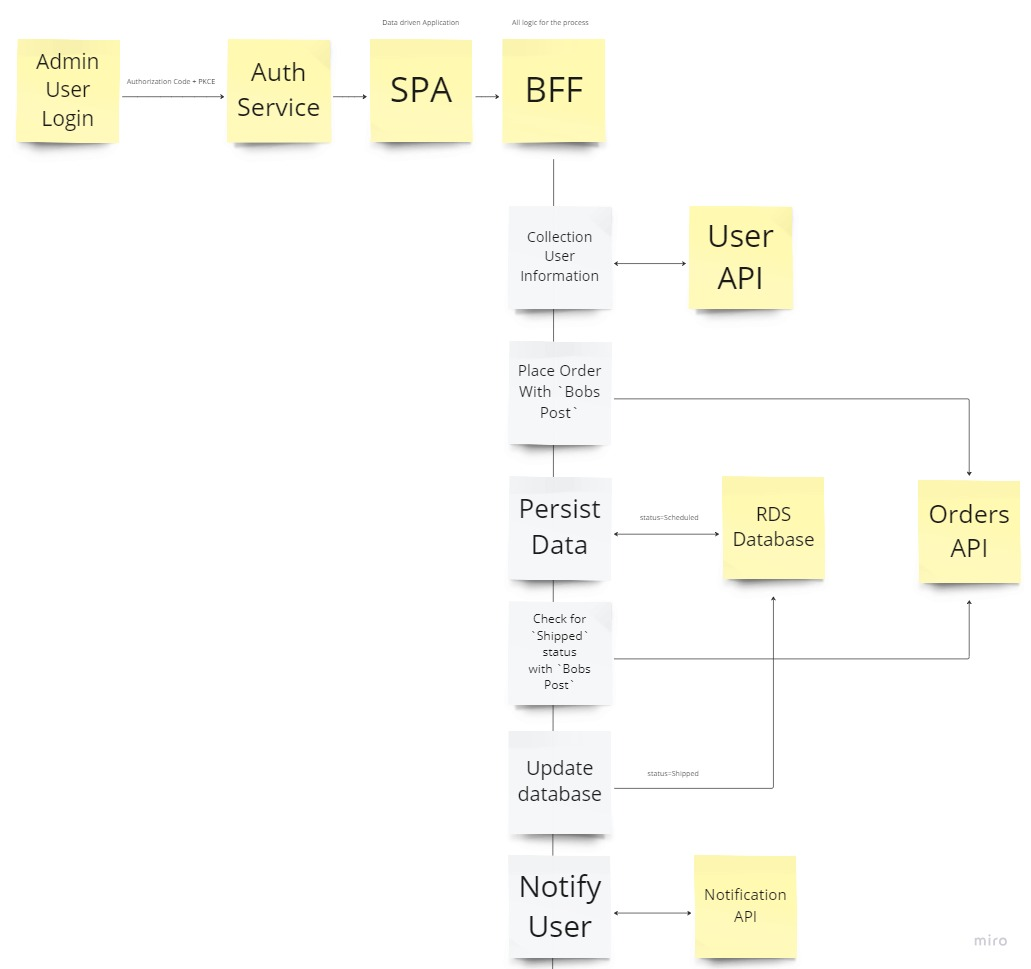
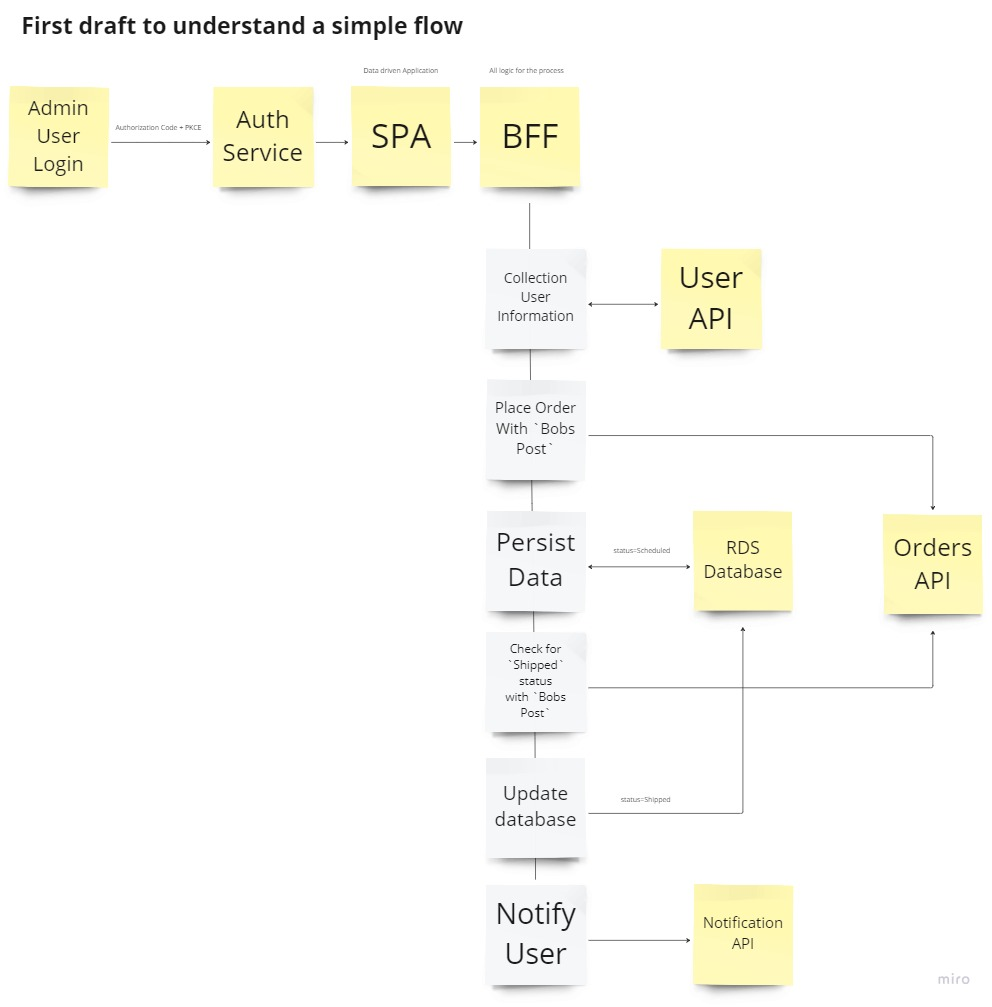
Site updated: 2023-09-11 10:01:44

diff --git a/2023/10/rosetta/index.html b/2023/10/rosetta/index.html
@@ -34,7 +34,7 @@ ga('send', 'pageview');
 <meta property="og:image" content="https://carlpaton.github.io/d/solution-design-ordering-system/third-draft-worker2.jpg">
 <meta property="og:image" content="https://carlpaton.github.io/d/solution-design-ordering-system/third-draft-notification.jpg">
 <meta property="article:published_time" content="2023-10-08T11:00:00.000Z">
-<meta property="article:modified_time" content="2023-09-09T17:55:09.742Z">
+<meta property="article:modified_time" content="2023-09-10T22:01:16.673Z">
 <meta property="article:author" content="Carl Paton">
 <meta property="article:tag" content="rosetta code">
 <meta name="twitter:card" content="summary">
@@ -149,18 +149,18 @@ ga('send', 'pageview');
 <li>Following KISS (Keep It Super Simple) solve the problem in the simplest manner, itterate later to allow for fault tolerance.</li>
 <li>Draft a few solutions and itterate on them<ul>
 <li>As such use an unconventional <code>Sticky Note</code> representation first to show the flow</li>
-<li>As a last draft represent as a <a target="_blank" rel="noopener" href="https://www.lucidchart.com/pages/uml-sequence-diagram">technical sequence diagram</a></li>
+<li>As a last draft represent as a <a target="_blank" rel="noopener" href="https://www.lucidchart.com/pages/uml-sequence-diagram">technical sequence diagram</a> (<a target="_blank" rel="noopener" href="https://miro.com/diagramming/uml-sequence-diagram/">Miro Template</a>)</li>
 </ul>
 </li>
 <li>The solution is Cloud Based (Focus on AWS), consider technologies for the pending decision register item<ul>
-<li>Security (Authentication and Authorisation), consider using <a href="/2020/12/oauth2/">OAuth2 flows</a>.</li>
-<li>Serverless Lamda Functions to expose data / house logic</li>
-<li>State Machine if we want to group logic and Lamdas</li>
+<li>Security (Authentication and Authorisation), consider using <a href="/2020/12/oauth2/">OAuth2 flows</a></li>
+<li><a href="/2021/11/aws-sqs-step-function-and-lamdas/">Serverless Lamda Functions</a> to expose data / house logic</li>
+<li><a href="/2021/11/aws-sqs-step-function-and-lamdas/">State Machine if we want to group logic and Lamdas</a></li>
 <li>Kubernetes (EKS) for Workers</li>
-<li>RESTful APIs to expose data / house logic</li>
-<li>Persistant storage options like Relational (RDS) or Key/Value Document DB (Dynamo)</li>
-<li>Frontend Application. React, Angular or Vue Single Page Application (SPA)</li>
-<li>Messaging System (SQS) and <a href="/2022/02/cloudevents/">Cloud Events</a></li>
+<li><a href="/2020/11/what-makes-a-great-api/">RESTful APIs</a> to expose data / house logic</li>
+<li>Persistant storage options like Relational (RDS) or Key/Value <a href="/2020/11/aws-dynamodb/">Document DB (Dynamo)</a></li>
+<li>Frontend Application. <a href="/tags/reactjs/">React</a>, <a href="/tags/angular/">Angular</a> or Vue Single Page Application (SPA) <a href="/2020/11/aws-s3/">hosted in S3</a></li>
+<li><a href="/2021/11/aws-sqs/">Messaging System (SQS)</a> and <a href="/2022/02/cloudevents/">Cloud Events</a></li>
 </ul>
 </li>
 <li>Cloud Design Patterns<ul>
@@ -179,23 +179,23 @@ ga('send', 'pageview');
 </li>
 </ul>
 <h4 id="First-Draft"><a href="#First-Draft" class="headerlink" title="First Draft"></a>First Draft</h4><p>First lets understand the problem and use an unconventional <code>Sticky Note</code> representation.</p>
-<p><img src="/d/solution-design-ordering-system/first-draft.jpg" alt="First Draft"></p>
+<p><img src="/d/solution-design-ordering-system/first-draft.jpg" alt="First draft to understand a simple flow"></p>
 <h4 id="Second-Draft"><a href="#Second-Draft" class="headerlink" title="Second Draft"></a>Second Draft</h4><p>Remember <code>Bobs Post</code> has an unstable API, we can unload responsability from the BFF and introduce some retry logic using the Asynchronous Request-Reply pattern and Queues. Additionally <a href="/2021/12/http-retry-polly/">Polly</a> can be used to retry HTTP requests.</p>
-<p><img src="/d/solution-design-ordering-system/second-draft-add-queue.jpg" alt="Second Draft - Add Queue"></p>
+<p><img src="/d/solution-design-ordering-system/second-draft-add-queue.jpg" alt="Second Draft, move workload Async"></p>
 <p>Now add a Worker process that will process the order request. If a message is not deleted and it has been received the maximum receive count times its pushed to the configured Dead Letter Queue (DLQ)</p>
-<p><img src="/d/solution-design-ordering-system/second-draft-add-worker.jpg" alt="Second Draft - Add Worker"></p>
+<p><img src="/d/solution-design-ordering-system/second-draft-add-worker.jpg" alt="Second Draft, understand the Async workload. Its doing too much!"></p>
 <h4 id="Third-Draft"><a href="#Third-Draft" class="headerlink" title="Third Draft"></a>Third Draft</h4><p>There is still a problem with the design as <code>Bobs Post</code> is unstable, so if any of the requests fail and the retry count for Polly is exhausted the process will fall over and cause possible duplication.</p>
 <p>We can try address this by adding a key/value database like Dynamo to keep track of the process. Additionally the responsability of the process can be delegated to several workers and queues. <span style="color:red;">The caveat being this brings complexity, so only introduce this when needed.</span></p>
 <p>Conditional logic would be added so that should the data exist in Dynamo then dont do that step. IE: We have the user data, dont call the <code>User API</code> ect.</p>
 <ul>
 <li>Third Draft: The main focus here is to place the order with <code>Bobs Post</code> (status=Scheduled)</li>
 </ul>
-<p><img src="/d/solution-design-ordering-system/third-draft-worker1.jpg" alt="Third Draft - Scheduled Worker"></p>
+<p><img src="/d/solution-design-ordering-system/third-draft-worker1.jpg" alt="Third Draft. Break it down, check and update `Scheduled` status"></p>
 <ul>
 <li>Third Draft: The main focus here is to check for updates at <code>Bobs Post</code> (status=Shipped)</li>
 <li>If no update is avalible, just Queue another message to check for shipped (<span style="color:red;">WARNING: Can cause infinite loop.</span>) So potentially just dont delete and rely on the DQL.</li>
 </ul>
-<p><img src="/d/solution-design-ordering-system/third-draft-worker2.jpg" alt="Third Draft - Shipped Worker"></p>
+<p><img src="/d/solution-design-ordering-system/third-draft-worker2.jpg" alt="Third Draft. Break it down, check and update `Shipped` status"></p>
 <ul>
 <li>Third Draft: The main focus here is to notify the User that their item(s) have shipped</li>
 <li>Emails are a common thing to send, potentially a flow exists (Event Queue) where the request can be sent</li>
@@ -206,7 +206,7 @@ ga('send', 'pageview');
 <li>Another worker can poll each DLQ and re-drive</li>
 <li>The process could be manual</li>
 </ul>
-<p>Finally once you agree with your team(s) draw as a technical sequence diagram.</p>
+<p>Finally once you agree with your team(s) draw as a technical sequence diagram. Also see the <a target="_blank" rel="noopener" href="https://miro.com/diagramming/uml-sequence-diagram/">Miro Template</a>.</p>
 <h3 id="References"><a href="#References" class="headerlink" title="References"></a>References</h3><ul>
 <li><a target="_blank" rel="noopener" href="https://learn.microsoft.com/en-us/azure/architecture/patterns/">https://learn.microsoft.com/en-us/azure/architecture/patterns/</a></li>
 </ul>
